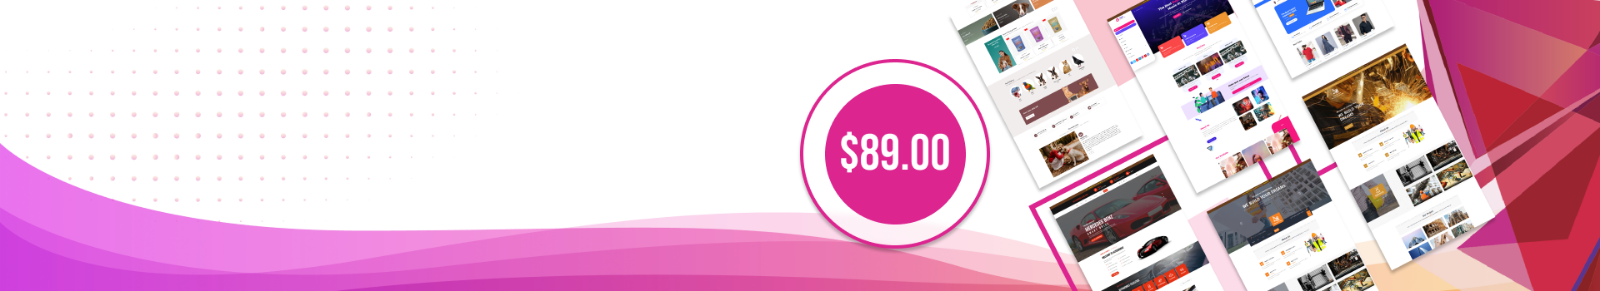
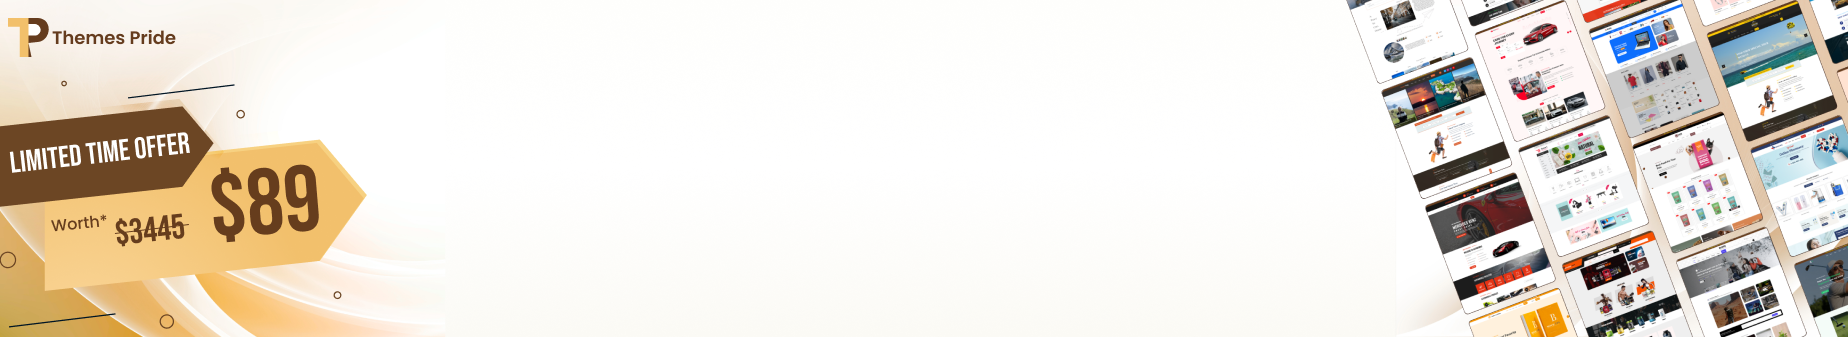
1.9

diff --git a/advanced-appointment-booking-scheduling/assets/css/style.css b/advanced-appointment-booking-scheduling/assets/css/style.css
@@ -21,12 +21,6 @@
     padding: 9px 20px;
 }
 
-.search-container {
-    /* max-width: 600px;
-    margin: 0px auto; */
-    /* text-align: center; */
-}
-
 .header-main-block {
     background-color: #fff;
     padding: 10px 0px;
@@ -54,7 +48,7 @@ select#api-response-dropdown {
     padding: 25px 20px !important;
     margin-bottom: 20px;
     color: #fff;
-    background-color: #dd2590;
+    background-color: #6e472d;
     border-radius: 5px 5px 0px 0px;
     font-size: 18px !important;
 }
@@ -74,7 +68,7 @@ div#category-tabs button {
     text-align: start;
 }
 div#category-tabs button:hover {
-    color: #dd2590;
+    color: #ffd294;
 }
 
 
@@ -134,20 +128,21 @@ p.card-text {
     flex-grow: 1;
 }
 .abp-button-wrapper a.buy-now {
-    background-color: #f547ad;
-    border-color: #dd2590;
+    background-color: #6e472d;
+    border: none !important;
     &:hover {
-        background-color: #dd2590;
-        border-color: #dd2590;
+        background-color: #6e472d;
+        border: none !important;
     }
 }
 
 .abp-button-wrapper a.demo {
-    background-color: #99353f;
-    border-color: #99353f;
+    background-color: #ffd294;
+    border: none !important;
+    color: #6e472d;
     &:hover {
-        background-color: #9a2531;
-        border-color: #9a2531;
+        background-color: #ffd294;
+        border: none !important;
     }
 }
 
@@ -173,7 +168,7 @@ button#load-more {
 
 button.btn.tab-btn.active::after {
     content: "";
-    background: #dd2590;
+    background: #ffd294;
     height: 2px;
     border-radius: 3px;
     width: 80%;
@@ -269,13 +264,13 @@ div#loader img {
     font-family: 'Bebas Neue';
     font-weight: 400;
     font-size: 79px;
-    color: #DD2590;
+    color: #ffd294;
 }
 .adv-app-book-notice-heading p {
     font-family: 'Montserrat';
     font-weight: 600;
     font-size: 16px;
-    background-color: #DD2590;
+    background-color: #ffd294;
     width: fit-content;
     padding: 0px 20px;
     color: #fff;
@@ -289,7 +284,7 @@ div#loader img {
     font-family: 'Montserrat';
     text-decoration: unset;
     background-color: #fff;
-    color: #DD2590;
+    color: #ffd294;
     padding: 10px;
     display: block;
     width: fit-content;
@@ -298,7 +293,7 @@ div#loader img {
     padding: 10px 30px;
     border-radius: 7px;
     margin-top: 15px;
-    border: 2px solid #dd2590;
+    border: 2px solid #ffd294;
 }
 .products-wrappre{
     position: relative;
@@ -348,7 +343,7 @@ div#loader img {
   }
 /* end */
 #toplevel_page_appointment-booking-themes .wp-menu-name {
-    background: #DD2590;
+    background: #6e472d;
 }
 #toplevel_page_appointment-booking-themes div.wp-menu-image:before, #toplevel_page_appointment-booking-themes .wp-menu-name {
     color: #fff;
@@ -534,3 +529,174 @@ nav {
         margin-bottom: 0;
     }
 }
+
+
+/* New css start */
+.abp-promo-admin-banner img {
+    max-width: 100%;
+    height: auto;
+    width: 100%;
+}
+.abp-promo-banner-content p {
+    font-family: 'Poppins', sans-serif;
+    color: #6C4624;
+    font-weight: 600;
+}
+strong#abp-coupon {
+    color: #663D1D;
+    font-weight: 700;
+    font-size: 21px;
+}
+p.abp-flash-code {
+    padding: 8px;
+    border: 2px solid #663D1D;
+    border-radius: 10px;
+    color: #663D1D;
+    font-weight: 300;
+}
+.abp-promo-admin-banner h3 {
+    font-family: 'Bebas Neue', sans-serif;
+    font-size: 30px;
+    margin: 0;
+    color: #663D1D;
+    letter-spacing: 1px;
+}
+.abp-promo-banner-content a {
+    background-color: #6C4624;
+    color: white;
+    padding: 14px 26px;
+    display: inline-block;
+    margin-top: 7px;
+    border-radius: 6px;
+    text-transform: uppercase;
+    text-decoration: none;
+    font-weight: 400;
+    font-family: 'Bebas Neue', sans-serif;
+    font-size: 30px;
+    letter-spacing: 1px;
+}
+.notice.abp-promo-admin-banner {
+    margin: unset !important;
+    padding: unset !important;
+    border: unset;
+    background: unset !important;
+    box-shadow: unset !important;
+}
+.abp-promo-discount {
+    background-color: #FFD48D;
+    width: 130px;
+    height: 130px;
+    border-radius: 50%;
+    box-shadow: 10px 10px 20px 0px #00000040;
+    display: flex;
+    align-items: center;
+    justify-content: center;
+}
+.abp-promo-admin-banner{
+    position: relative;
+}
+.abp-promo-banner-content-block {
+    position: absolute;
+    left: 39%;
+    transform: translate(-50%, -50%);
+    top: 54%;
+    margin-left: 3%;
+}
+.abp-promo-discount span {
+    display: block;
+    font-size: 17px;
+    color: #6C4624;
+    font-weight: 600;
+    font-family: 'Poppins', sans-serif;
+}
+.abp-promo-discount {
+    text-align: center;
+}
+.abp-promo-discount {
+    text-align: center;
+    position: absolute;
+    right: -168px;
+    top: 0;
+}
+.abp-promo-discount span:nth-child(2) {
+    color: #6C4624;
+    font-size: 41px;
+    line-height: 41px;
+}
+
+@media (max-width: 1199px) and (min-width: 768px) {
+    .abp-promo-admin-banner h3 {
+        font-size: 19px;
+    }
+    p.abp-flash-code {
+        padding: 0px 7px;
+    }
+    .abp-promo-banner-content a {
+        padding: 6px 19px;
+        margin-top: 7px;
+        font-size: 21px;
+    }
+    strong#abp-coupon {
+        font-size: 17px;
+    }
+    .abp-promo-banner-content p {
+        margin: 0;
+    }
+    .abp-promo-discount {
+        width: 108px;
+        height: 108px;
+    }
+    .abp-promo-discount span:nth-child(2) {
+        font-size: 26px;
+        line-height: 25px;
+    }
+}
+@media (max-width: 1440px) and (min-width: 1200px) {
+    .abp-promo-admin-banner h3 {
+        font-size: 28px;
+    }
+    p.abp-flash-code {
+        padding: 0px 7px;
+    }
+    .abp-promo-banner-content a {
+        font-size: 21px;
+    }
+    strong#abp-coupon {
+        font-size: 21px;
+    }
+} 
+@media (max-width: 1919px) and (min-width: 1441px) {
+    .abp-promo-admin-banner h3 {
+        font-size: 40px;
+    }
+    p.abp-flash-code {
+        padding: 0px 7px;
+    }
+    .abp-promo-banner-content a {
+        font-size: 22px;
+    }
+    strong#abp-coupon {
+        font-size: 21px;
+    }
+} 
+@media(min-width:1920px) {
+    .abp-promo-admin-banner h3 {
+        font-size: 65px;
+    }
+    p.abp-flash-code {
+        padding: 12px 7px;
+    }
+    .abp-promo-banner-content p {
+        font-size: 20px;
+        margin-top: 22px !important;
+        display: block;
+    }
+    .abp-promo-banner-content a {
+        font-size: 32px;
+        padding: 17px 39px;
+    }
+    strong#abp-coupon {
+        font-size: 29px;
+    }
+}   
+/* New css end */

diff --git a/advanced-appointment-booking-scheduling/advanced-appointment-booking.php b/advanced-appointment-booking-scheduling/advanced-appointment-booking.php
@@ -1,13 +1,13 @@
 <?php
 /*
 Plugin Name:       Advanced Appointment Booking & Scheduling
+Plugin URI:
 Description:       Advanced Appointment Booking & Scheduling: Effortlessly manage appointments with a simple, user-friendly scheduling system.
-Version:           1.8
+Version:           1.9
 Requires at least: 5.2
 Requires PHP:      7.2
 Author:            themespride
 Author URI:        https://www.themespride.com/
-Plugin URI:
 Text Domain:       advanced-appointment-booking
 License:           GPL-2.0+
 */
@@ -18,7 +18,7 @@ if (!defined('ABSPATH')) {
     exit;
 }
 
-define('ABP_VERSION', '1.8');
+define('ABP_VERSION', '1.9');
 define('ABP_PLUGIN_DIR', plugin_dir_path(__FILE__));
 define('ABP_PLUGIN_URL', plugin_dir_url(__FILE__));
 define('ABP_LICENCE_API_ENDPOINT', 'https://license.themespride.com/api/general/');
@@ -196,25 +196,27 @@ function abp_enqueue_assets()
     wp_enqueue_script('abp-script', plugins_url('/assets/js/booking.js', __FILE__), ['jquery'], $script_version, true);
 }
 
-add_action('admin_notices', 'adv_app_book_admin_notice_with_html');
-function adv_app_book_admin_notice_with_html()
-{
-    ?>
-    <div class="notice is-dismissible adv-app-book">
-        <div class="adv-app-book-notice-banner-wrap"
-            style="background-image: url(<?php echo esc_url(plugins_url('includes/images/ban-plain.png', __FILE__)); ?>)">
-            <div class="adv-app-book-notice-heading">
-                <h1 class="adv-app-book-main-head"><?php echo esc_html('WordPress Theme Bundle'); ?></h1>
-                <p class="adv-app-book-sub-head">
-                    <span><?php echo esc_html('120+'); ?></span><?php echo esc_html('  Premium WordPress Themes in 1 Bundle '); ?>
-                </p>
-                <div class="adv-app-book-notice-btn">
-                    <a class="adv-app-book-buy-btn" target="_blank"
-                        href="<?php echo esc_url(ABP_MAIN_URL . 'products/wordpress-theme-bundle'); ?>"><?php echo esc_html('Buy Now'); ?></a>
+function abp_promo_admin_banner_notice() { ?>
+    <div class="notice notice-info is-dismissible abp-promo-admin-banner">
+        <div class="abp-promo-banner-content-block">
+            <div class="abp-promo-banner-content-inner">
+                <div class="abp-promo-banner-content">
+                    <h3><?php echo esc_html('WordPress Theme Bundle'); ?></h3>
+                    <p class="abp-promo-banner-info"><?php echo esc_html('Get 120+ Premium WordPress Themes for Just $89!'); ?></p>
+                    <p class="abp-flash-code"><?php echo esc_html('Exclusive Flash Sale 🔥 Use Code: '); ?><strong id="abp-coupon"><?php echo esc_html('FLASH25'); ?></strong></p>
+                    <a href="<?php echo esc_attr( ABP_MAIN_URL . 'products/wordpress-theme-bundle' ); ?>" target="_blank"><?php echo esc_html('Buy Now'); ?></a>
+                </div>
+                <div class="abp-promo-discount">
+                    <div class="abp-extra">
+                        <span><?php echo esc_html('Extra'); ?></span>
+                        <span><?php echo esc_html('25%'); ?></span>
+                        <span><?php echo esc_html('OFF'); ?></span>
+                    </div>
                 </div>
             </div>
         </div>
+        <img src="<?php echo esc_url(plugins_url('includes/images/ban-plain.png', __FILE__)); ?>" alt="Theme Bundle Offer">
     </div>
     <?php
 }
-
+add_action('admin_notices', 'abp_promo_admin_banner_notice');
